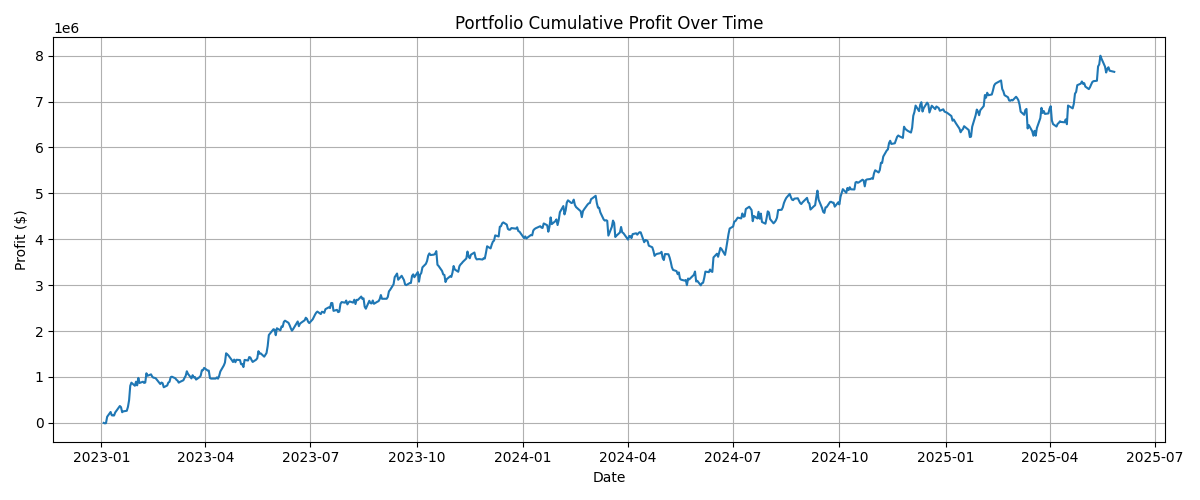
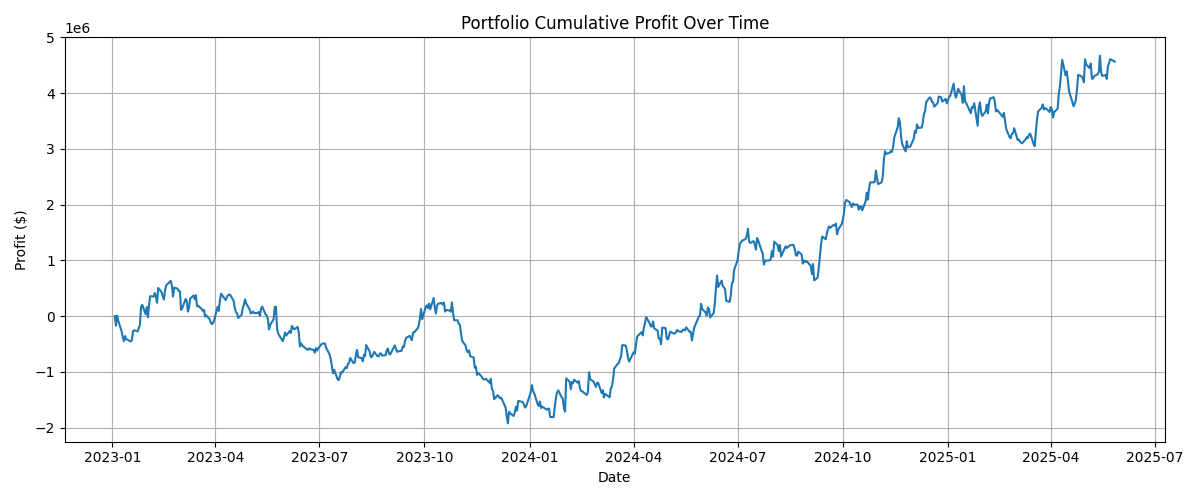
fix: forward fill fundamental data; correct README

diff --git a/src/helpers.py b/src/helpers.py
@@ -44,8 +44,8 @@ def load(data_name):
             try:
                 data = yf.Ticker(ticker).financials.loc[data_name]
                 daily_series = pd.Series(index=price_index, dtype=float)
-                for fin_date, value in data.items():
-                    mask = daily_series.index <= fin_date
+                for fin_date, value in data.sort_index().items():
+                    mask = daily_series.index >= fin_date
                     if mask.any():
                         daily_series.loc[mask] = value
                 daily_series = daily_series.ffill()

diff --git a/README.md b/README.md
@@ -82,7 +82,7 @@ Open a new file `buffett.fund` and start coding!
 
 #### Load Data
 The first step is always loading data. We load all the data mentioned above as well as price/volume data. 
-```c
+```python
 load(data=Volume);
 load(data=Close);
 load(data=EBIT);
@@ -96,7 +96,7 @@ load(data="Total Revenue");
 From ChatGPT's reply, we know that EBITDA, EBIT, and Reconciled Depreciation are important in this strategy. Therefore, we want to add these numbers together. 
 Directly adding these numbers is unfair because we don't know the units of them and their magnitude. A more general method is ranking them across assets, and then adding the ranked values. 
 For Depreciation, we guess some companies don't have this entry on their statements. To prevent the NaN values affect the result, we can use `nanto0` to replace NaN with 0. 
-```c
+```python
 rank(out=EBIT_rank, in=EBIT);
 rank(out=EBITDA_rank, in="Normalized EBITDA");
 nanto0(out=Depreciation, in="Reconciled Depreciation");
@@ -108,7 +108,7 @@ The variable `earnings` is the Company Performance we measure.
 
 #### Earnings Consistency
 ChatGPT told us to calculate the standard deviation of the Net Income. Therefore we use `tsstd` to calculate the time-series standard deviation of the past 300 days. 300 is a random number we are trying, and we can replace it with other numbers. Here we also use `nanto0` to avoid NaN in our calculation. 
-```c
+```python
 tsstd(out=earnings_std, in="Net Income", days=300);
 nanto0(out=earnings_std, in=earnings_std);
 rank(out=earnings_std_rank, in=earnings_std);
@@ -117,7 +117,7 @@ The variable `earnings_std_rank` is the Earnings Consistency we measure.
 
 #### Profit Margin
 According to ChatGPT's formula, we want to calculate `Net Income / Revenue`. We don't know the Revenue's range, but since it is a denominator, we don't want extreme values. Therefore we use `cap_floor` to limit the range of Revenue. 
-```c
+```python
 cap_floor(out=revenue_cap, in="Total Revenue", cap=100000, floor=100);
 div(out=margin, in1="Net Income", in2=revenue_cap);
 rank(out=margin_rank, in=margin);
@@ -130,7 +130,7 @@ The data we used above are fundamental. They update very slowly (at most 4 times
 However, we don't know how to use price and volume. Fortunately, Fundgen provides a primitive `select` to simulate all combinations of given functions and return the best combination. `select(0)` will try all combinations and permutations of the given functions. `select(n)` with n != 0 will try all combinations and permutations of n of the given functions. 
 
 For example, if we think that the correlation coefficient between price and volume could be meaningful, and the movement of the correlation coefficient could also be meaningful, we can write: 
-```c
+```python
 rank(out=volume_rank, in=Volume);
 rank(out=close_rank, in=Close);
 select(0) {
@@ -148,7 +148,7 @@ The variable `pv_corr_tsrank` is the Price / Volume Relation we measure (althoug
 
 #### Ensemble all the signals
 Finally, we add all the signals we generated above. We believe that Buffett's idea is better than ours (price/volume relation), so we multiply Buffett's signal by 5 before adding it to the unknown price/volume signal. 
-```c
+```python
 add(out=_, in1=earnings, in2=earnings_std_rank);
 rank(out=_, in=_);
 add(out=_, in1=_, in2=margin_rank);
@@ -159,13 +159,13 @@ add(out=_, in1=_, in2=pv_corr_tsrank);
 
 #### Normalize
 We want our portfolio to be independent of the overall market index. Moreover, we don't want extreme values to affect the portfolio. Using `normalize` here helps demean and reshape our portfolio. 
-```c
+```python
 normalize(out=portfolio, in=_);
 ```
 
 #### Return
 Finally, the variable `portfolio` is the portfolio we generate. We use `stat` to measure the performance. 
-```c
+```python
 stat portfolio;
 ```
 
@@ -179,10 +179,10 @@ or directly run our example:
 ./run examples/buffett.fund
 ```
 Since we use `select`, there are 60 cases to run. The program should output
-> Stats of the best strategy:  
-> Sharpe: 2.09  
-> Annual Returns Rate: 234.675%  
-> Turnover Rate: 9.83%  
+> Stats of the best strategy:
+> Sharpe: 0.998
+> Annual Returns Rate: 189.059%
+> Turnover Rate: 6.729%
 
 With the best strategy specifying what strategy yields this performance. 
 
@@ -190,7 +190,7 @@ In `image` directory we can find the cumulative profits over two years:
 ![image](image/buffett.png)
 
 This looks really good! 
-For your information, Buffett's Berkshire Hathaway has realized a Sharpe ratio of 0.79. And we got 2.09 with our strategy, which means in terms of Sharpe ratio we beat Buffett!
+For your information, Buffett's Berkshire Hathaway has realized a Sharpe ratio of 0.79. And we got 0.998 with our strategy, which means in terms of Sharpe ratio we beat Buffett!
 
 Although in the real investment, we also need to consider turnover rate (related to transaction fee and liquidity), drop down (related to risk management), and other metrics, this example shows that FundGen provides a great platform for people without financial knowledge to generate portfolio which can potentially earn (a lot of) money. 
 